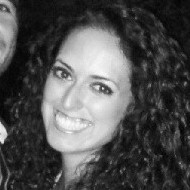
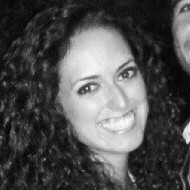
Minor fixes

diff --git a/index.html b/index.html
@@ -64,11 +64,21 @@
 	<![endif]-->
 <style>
 @media (max-width: 600px) {
-  #fh5co-gallery,
-  #btn-intereres {
+  #lugares-de-interes-desktop{
     display: none;
   }
 
+}
+@media (min-width: 600px) {
+  #lugares-de-interes-mobile{
+    display: none;
+  }
+}
+.couple-half .groom img, .couple-half .bride img{
+      margin-top: 60px;
+}
+.heart{
+  top: 8rem;
 }
 #fh5co-started .btn{
   line-height: 3.7rem;
@@ -116,7 +126,7 @@ background-position:center 0 !important;
 				<div class="col-xs-10 text-right menu-1">
 					<ul>
             <li><a href="#">Inicio</a></li>
-            <li><a href="#donde-y-cuando">¿Dónde y cuándo</a></li>
+            <li><a href="#donde-y-cuando">Dónde y cuándo</a></li>
             <li><a href="#nosotros">Nosotros</a></li>
             <li id="btn-intereres"><a href="#lugares-de-interes">Lugares de interés</a></li>
             <li><a href="#confirmaciones">Confirmar</a></li>
@@ -203,29 +213,30 @@ background-position:center 0 !important;
 			<div class="couple-wrap animate-box">
 				<div class="couple-half">
 					<div class="groom">
-						<img src="images/raul2.jpg" alt="groom" class="img-responsive">
+						<img src="images/maria2.jpg" alt="groom" class="img-responsive">
 					</div>
 					<div class="desc-groom">
-						<h3>Raúl Jiménez</h3>
+            <h3>María del Mar Cano</h3>
 						<p>
-              Si cuando conocí a María alguien me llega a decir ella iba a ser
-              la madre de mi pequeñajo ... a lo mejor hubiese salido corriendo,
-              pero hoy ya puedo decir que no habrá quien me separe de ellos.
+              Con 11 años coincidimos en un campamento de Ronda (Málaga), en la
+              época universitaria volvimos a coincidir en Granada y cuando ya
+              habían pasado unos años nos reencontramos en Córdoba. Algo bonito
+              estaba escrito.
             </p>
 					</div>
 				</div>
 				<p class="heart text-center"><i class="icon-heart2"></i></p>
 				<div class="couple-half">
 					<div class="bride">
-						<img src="images/maria2.jpg" alt="groom" class="img-responsive">
+						<img src="images/raul2.jpg" alt="groom" class="img-responsive">
 					</div>
 					<div class="desc-bride">
-						<h3>María del Mar Cano</h3>
-						<p>
-              Con 11 años coincidimos en un campamento de Ronda (Málaga), en la
-              época universitaria volvimos a coincidir en Granada y cuando ya
-              habían pasado unos años nos reencontramos en Córdoba. Algo bonito
-              estaba escrito.
+            <h3>Raúl Jiménez</h3>
+            <p>
+              A lo largo de nuestra vida nos cruzamos con miles de personas:
+              en el cole, en las actividades extra escolares, instituto, fiestas,
+              univ., trabajo, ... de todas ellas yo decidí que era con María con
+              la única que quería compartir el resto de mi vida.
             </p>
 					</div>
 				</div>
@@ -287,7 +298,7 @@ background-position:center 0 !important;
 									</div>
                   -->
 									<p>
-                    El cocktel de bienvenidas empezará aproximadamente a las 13:30
+                    El cocktel de bienvenida empezará aproximadamente a las 13:30
                     y durará hasta las 15:00 que llegaremos de hacernos las fotos.
                     Desde las 15:00 a las 18:00 aproximadamente nos daremos una
                     buena comilona (guardad apetito) y desde las 18:00 hasta que
@@ -377,7 +388,7 @@ background-position:center 0 !important;
 								<div class="timeline-body">
 									<p>
                       Una mesecitos más tarde llegó José ( 👶 ), y con él muchas
-                      otras cosas: 🍼 🏻 💩 😴 🤗 😫 😂 😬 😚 💤 ...
+                      otras cosas: 🍼 💩 😴 🤗 😫 😂 😬 😚 💤 ...
                   </p>
 								</div>
 							</div>
@@ -394,8 +405,6 @@ background-position:center 0 !important;
                     Y bueno, este día queremos compartirlo con tod@s vosotros,
                     y que <strong>forméis parte de nuestra historia</strong>: 💒 👰 👨🏻 🎉 💅 👏
                     💪 😭 😬 😎 🤗 🎁 🍴 🍹 🍸 🍷 🍻 🍺 🎊 💘 👯 ... ¡¡y mucho más!!
-
-
                   </p>
 								</div>
 							</div>
@@ -406,13 +415,17 @@ background-position:center 0 !important;
 		</div>
 	</div>
   <div id="fh5co-gallery" class="fh5co-section-gray">
-		<div id="lugares-de-interes" class="container">
+		<div class="container">
 			<div class="row">
 				<div class="col-md-8 col-md-offset-2 text-center fh5co-heading animate-box">
 					<span>Y para los que no conocéis la zona</span>
 					<h2>Lugares de interés</h2>
-					<p>
+					<p id="lugares-de-interes-desktop">
             <a href="mapa/?appid=9e151de9cec744f09b31b9e68309e299"><img src="images/mapa.png" alt="mapa"/></a>
+          </p>
+          <p id="lugares-de-interes-mobile">
+            <img src="images/mapa.png" alt="mapa" style="width:75%"/><br>
+            Sólo disponible desde el PC
           </p>
 				</div>
 			</div>
